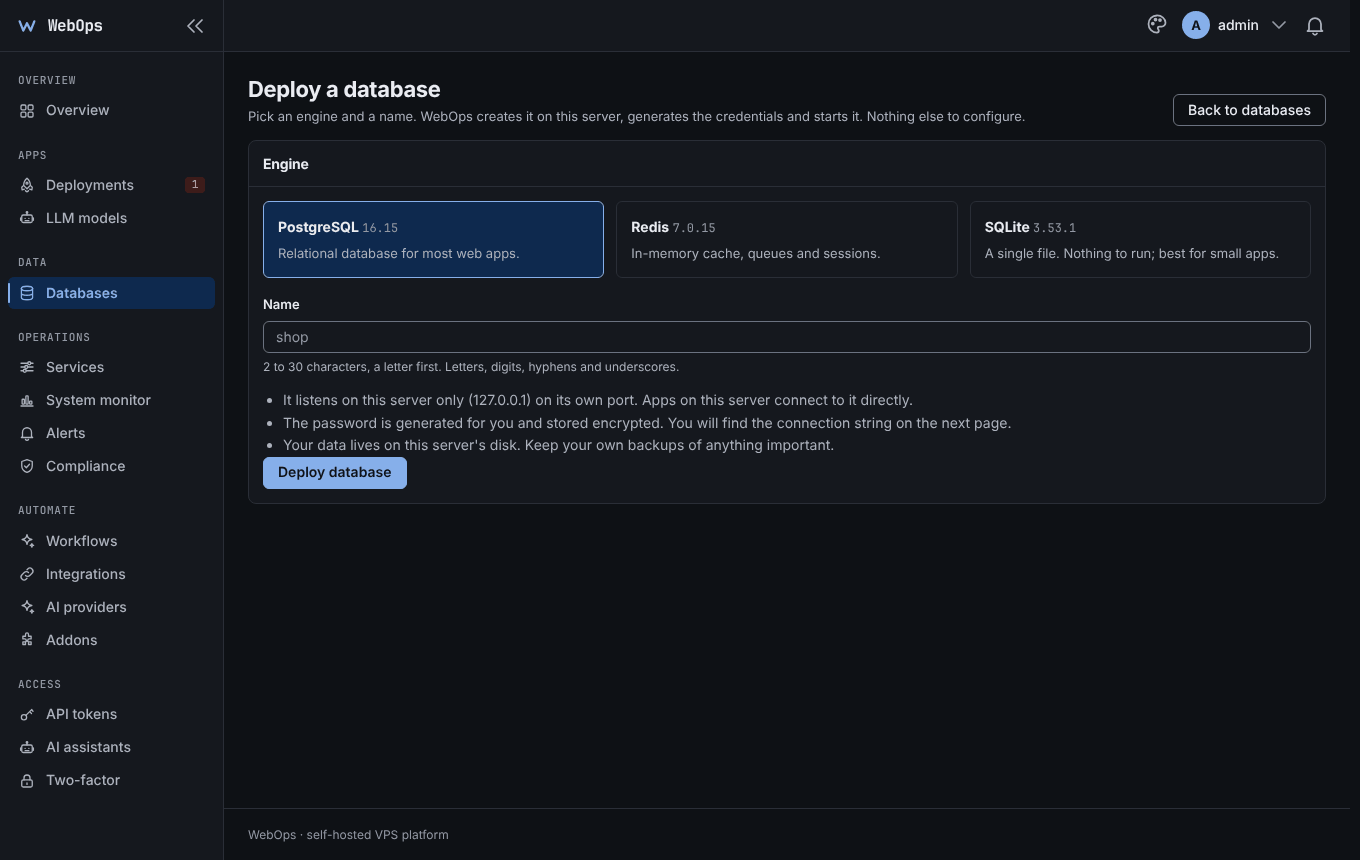
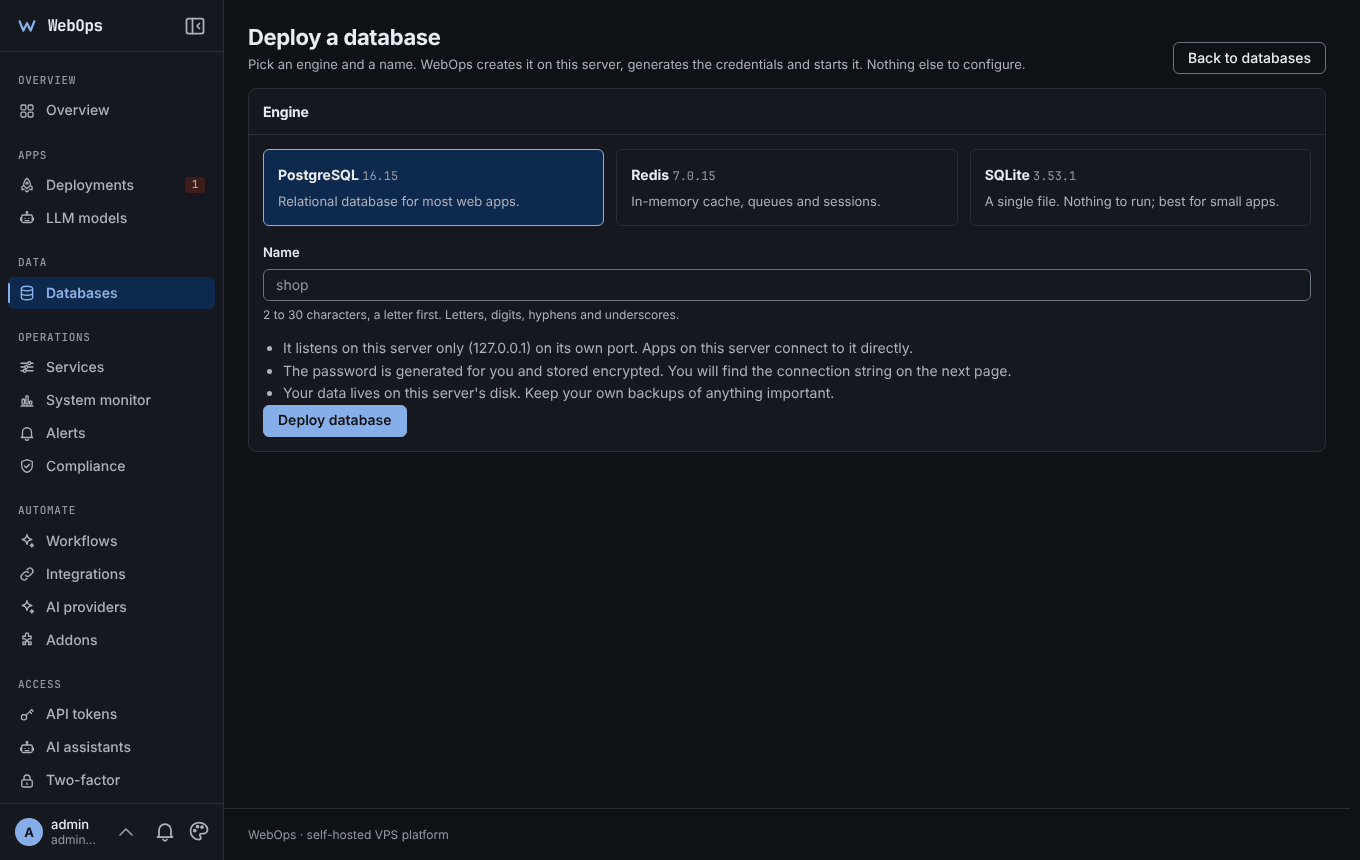
Refresh the README gallery for the new sidebar layout
Regenerates all screenshots (the account, notification and appearance controls
moved from the header into the sidebar footer) and adds two shots of the footer
menu and the collapsed rail, with a short "The sidebar" section in the README.

Claude-Session: https://claude.ai/code/session_01BjtZ1uv3R17WDLtyuYHcsC

diff --git a/docs/screenshots/tools/capture.js b/docs/screenshots/tools/capture.js
@@ -58,6 +58,13 @@ async function open(page, url, themeName = 'dark') {
 
   ids = getIds();                                       // marks the demo worker as just seen
   await open(page, '/', 'dark');                       await shot(page, '02-overview-dark');
+  // The sidebar footer: account menu open, then the collapsed rail.
+  await page.click('#userMenuTrigger'); await page.waitForTimeout(400);
+  await shot(page, '20-sidebar-account-menu');
+  await page.keyboard.press('Escape'); await page.waitForTimeout(200);
+  await page.click('#btn-toggle-sidebar'); await page.waitForTimeout(700);
+  await shot(page, '21-sidebar-collapsed');
+  await page.click('#btn-toggle-sidebar'); await page.waitForTimeout(500);
   ids = getIds();
   await open(page, '/', 'light');                      await shot(page, '03-overview-light');
   ids = getIds();

diff --git a/README.md b/README.md
@@ -25,12 +25,23 @@ The control panel in dark and light themes, on desktop and phone. All data shown
   <img src="docs/screenshots/02-overview-dark.png" alt="Overview: what is running and what needs you" width="100%">
 </p>
 
-**Overview.** One screen for what is running and what needs a person: failed deploys, requests waiting for review, expiring tokens. Dark, light and high-contrast themes, with compact, default and roomy density.
+**Overview.** One screen for what is running and what needs a person: failed deploys, requests waiting for review, expiring tokens. Dark, light and high-contrast themes, with compact, default and roomy density. Your account, notifications and appearance settings live in the sidebar footer, so the page itself is all content.
 
 <table>
   <tr>
     <td width="50%"><img src="docs/screenshots/03-overview-light.png" alt="Overview, light theme"><br><sub><b>Light theme</b> with the same layout.</sub></td>
     <td width="50%"><img src="docs/screenshots/04-deployments.png" alt="Deployments list with the operator review queue"><br><sub><b>Deployments</b> with the operator review queue.</sub></td>
+  </tr>
+</table>
+
+### The sidebar
+
+Navigation is grouped by what you are trying to do. The footer holds your account menu, notifications and appearance (theme, density, animations), and the whole sidebar collapses to an icon rail. On a phone it becomes a drawer.
+
+<table>
+  <tr>
+    <td width="50%"><img src="docs/screenshots/20-sidebar-account-menu.png" alt="Sidebar footer with the account menu open"><br><sub><b>Footer.</b> Account menu, notifications and appearance, always one click away.</sub></td>
+    <td width="50%"><img src="docs/screenshots/21-sidebar-collapsed.png" alt="Collapsed sidebar rail"><br><sub><b>Collapsed rail.</b> Icons only, with the same footer controls stacked.</sub></td>
   </tr>
 </table>
 
